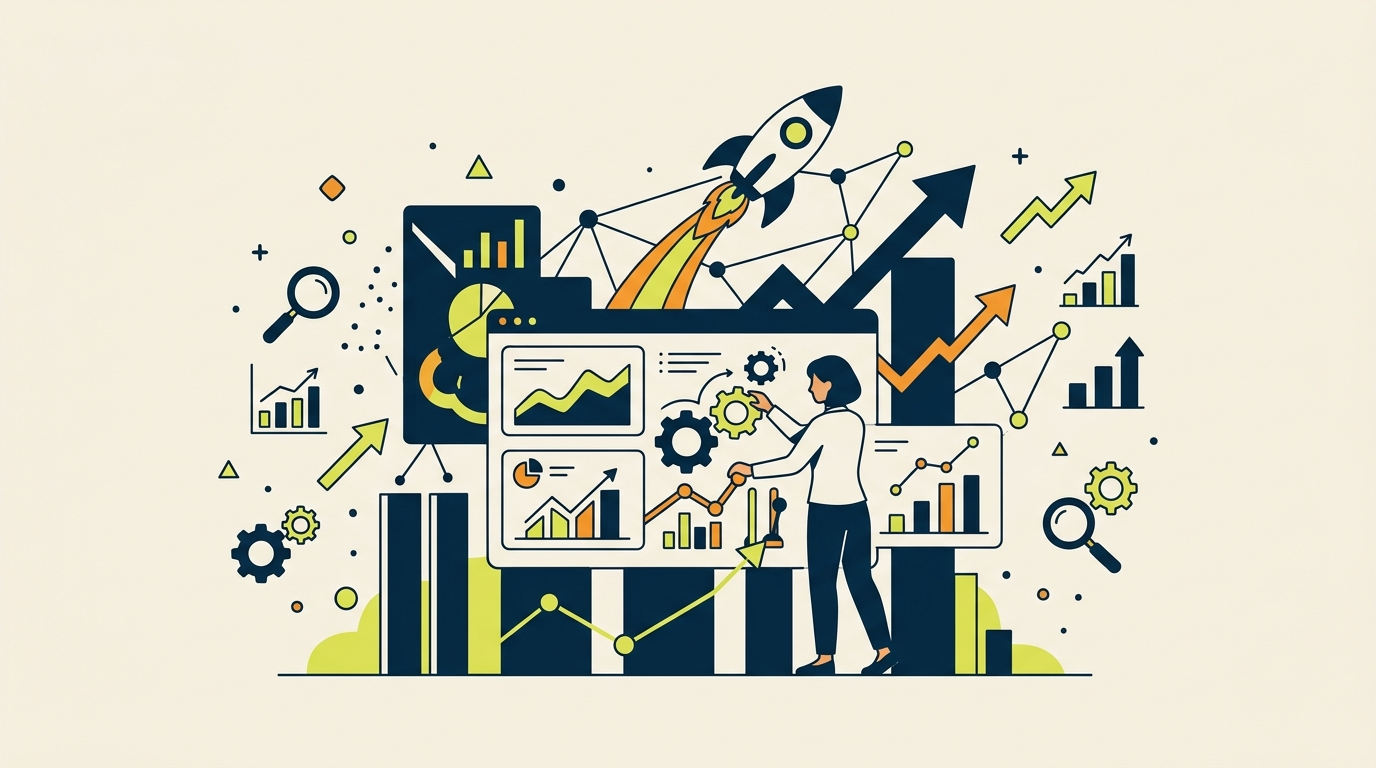
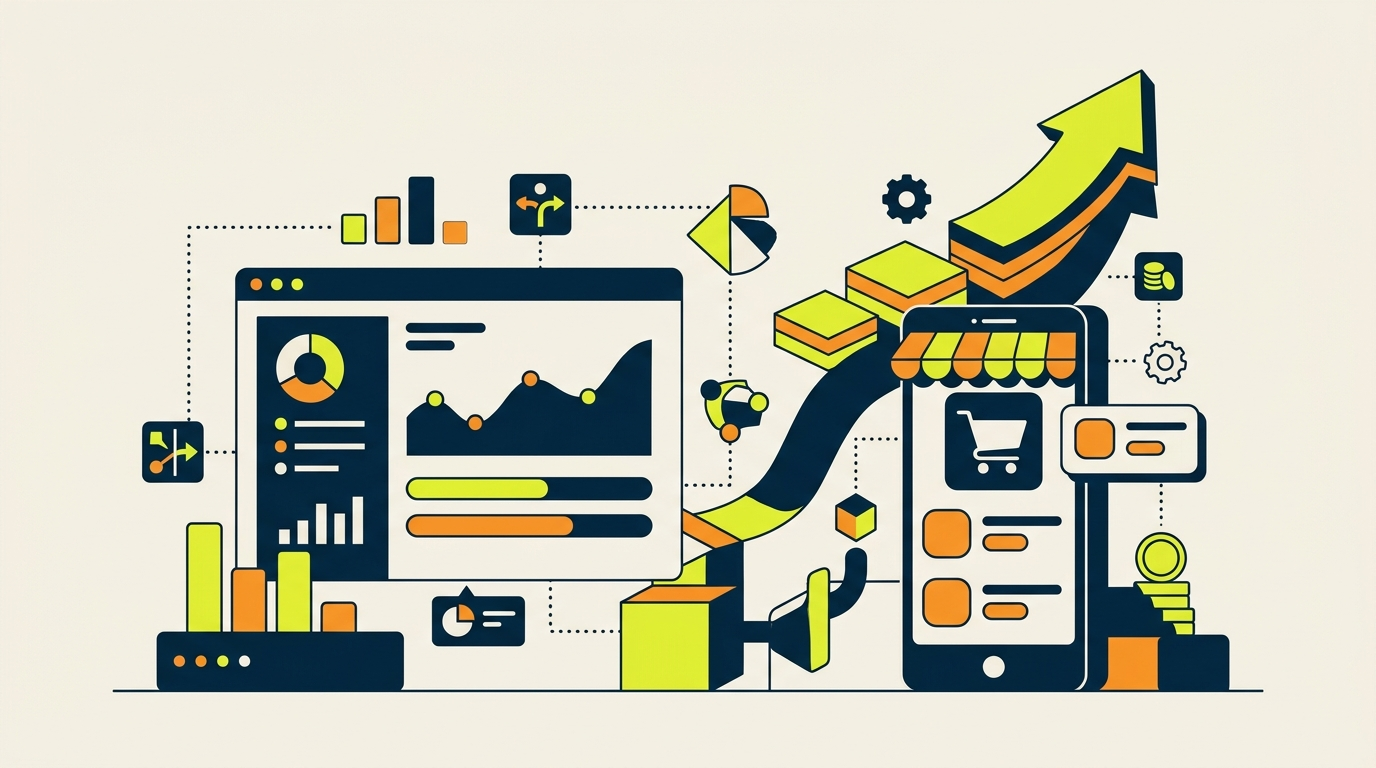
feat(blog): mengoptimalkan-performance-marketing-dengan-cpas

diff --git a/content/blog/mengoptimalkan-performance-marketing-dengan-cpas.md b/content/blog/mengoptimalkan-performance-marketing-dengan-cpas.md
@@ -1,35 +1,123 @@
 ---
-title: "Mengoptimalkan Performance Marketing dengan CPAS"
-description: "Cara mengoptimalkan performance marketing dengan CPAS dan menghindari kesalahan umum dalam pengaturan budget dan creative"
-category: "Meta Ads · Strategi"
+title: "Strategi Testing Meta Ads & CPAS Shopee: Kapan dan Bagaimana Scale Budget Iklanmu?"
+description: "Pelajari cara efektif testing Meta Ads dan Collaborative Performance Advertising Solution (CPAS) Shopee untuk menemukan produk cuan, kapan harus scale budget, d"
+category: "Meta Ads · Panduan"
 datePublished: "2026-06-29"
 cover: "/blog/blogimg/mengoptimalkan-performance-marketing-dengan-cpas.jpg"
 faq:
-  - question: "Apa itu CPAS?"
-    answer: "CPAS (Cost Per Acquisition Scaling) adalah strategi pengiklan yang memungkinkan Anda untuk meningkatkan skala iklan dengan biaya yang efektif. Dengan CPAS, Anda dapat menargetkan audiens yang lebih luas dan meningkatkan konversi dengan biaya yang lebih rendah."
-  - question: "Bagaimana cara memilih produk CPAS yang biaya iklannya murah?"
-    answer: "Untuk memilih produk CPAS yang biaya iklannya murah, Anda perlu menganalisis data produk dan audiens Anda. Pastikan Anda memilih produk yang memiliki CPA (Cost Per Acquisition) yang rendah dan audiens yang relevan dengan produk Anda."
-  - question: "Kapan saya harus melakukan scaling dalam CPAS?"
-    answer: "Anda harus melakukan scaling dalam CPAS ketika Anda telah menemukan creative angle yang efektif dan memiliki CPA yang rendah. Pastikan Anda juga memiliki budget yang cukup untuk melakukan scaling dan meningkatkan skala iklan Anda."
-  - question: "Bagaimana cara menghindari kesalahan umum dalam pengaturan budget dan creative?"
-    answer: "Untuk menghindari kesalahan umum dalam pengaturan budget dan creative, pastikan Anda melakukan testing dengan spend yang cukup dan menggunakan beberapa creative angle yang berbeda. Dengan demikian, Anda dapat menemukan creative angle yang paling efektif dan memiliki CPA yang rendah."
-  - question: "Apa itu ROAS dan bagaimana cara menggunakannya dalam performance marketing?"
-    answer: "ROAS (Return On Ad Spend) adalah metrik yang digunakan untuk mengukur keefektifan iklan Anda. Dengan ROAS, Anda dapat mengetahui berapa rupiah yang Anda dapatkan dari setiap rupiah yang Anda belanjakan untuk iklan. Pastikan Anda menggunakan ROAS untuk mengoptimalkan iklan Anda dan meningkatkan konversi."
+  - question: "Apa itu learning phase dalam Meta Ads?"
+    answer: "Learning phase adalah fase awal Meta \"belajar\" nyari calon pembeli yang tepat. Selama fase ini, sistem Meta mengumpulkan data untuk mengoptimalkan penayangan iklan agar lebih efisien dan efektif."
+  - question: "Berapa budget ideal untuk mulai testing Meta Ads?"
+    answer: "Idealnya, kamu bisa mulai testing dengan budget sekitar Rp200 ribu per hari per ad set, menggunakan 3-4 creative dengan angle berbeda. Ini cukup untuk Meta mengumpulkan data awal dan melihat performa iklan mana yang paling menjanjikan."
+  - question: "Kapan waktu yang tepat untuk menaikkan budget iklan Meta Ads?"
+    answer: "Kamu bisa mulai mempertimbangkan menaikkan budget setelah iklan keluar dari learning phase dan menunjukkan performa yang stabil serta positif (misalnya, Return on Ad Spend (ROAS) atau Cost per Acquisition (CPA) yang bagus) selama minimal 3-4 hari berturut-turut."
+  - question: "Bagaimana cara menaikkan budget iklan Meta Ads agar tidak merusak performa?"
+    answer: "Naikkan budget secara bertahap, sekitar 20-30% dari budget sebelumnya per langkah. Setelah menaikkan, tunggu 3-4 hari agar Meta kembali beradaptasi dan keluar dari learning phase baru, sebelum melakukan kenaikan berikutnya."
+  - question: "Apa itu CPAS Shopee dan mengapa penting untuk brand?"
+    answer: "CPAS (Collaborative Performance Advertising Solution) adalah iklan Meta yang nyambung langsung ke katalog Shopee. Ini sangat efektif untuk mendorong penjualan di marketplace karena menargetkan pengguna Meta yang relevan dan mengarahkan mereka langsung ke produk di Shopee."
 ---
 ## Jawaban Singkat
-Dalam performance marketing, CPAS (Cost Per Acquisition Scaling) adalah strategi yang memungkinkan Anda untuk meningkatkan skala iklan dengan biaya yang efektif. Namun, banyak advertiser yang ragu untuk melakukan scaling karena takut biaya iklan yang tinggi. Untuk menghindari kesalahan umum, pastikan Anda melakukan testing dengan spend yang cukup dan menggunakan beberapa creative angle yang berbeda.
+Testing Meta Ads adalah tahapan krusial untuk menemukan kombinasi produk, creative, dan target audiens yang menghasilkan performa iklan terbaik. Kunci suksesnya ada pada strategi alokasi budget yang tepat, pemilihan creative yang bervariasi, dan kemampuan membaca data untuk memutuskan kapan harus scale (meningkatkan budget) atau stop. Proses ini membantu brand mengoptimalkan Return on Ad Spend (ROAS) dan Cost per Acquisition (CPA).
 
-## Mengenal CPAS
-CPAS adalah strategi pengiklan yang memungkinkan Anda untuk menargetkan audiens yang lebih luas dan meningkatkan konversi dengan biaya yang lebih rendah. Dengan CPAS, Anda dapat meningkatkan skala iklan Anda dan meningkatkan keuntungan Anda.
+## Mengapa Testing Itu Wajib, Bukan Pilihan?
+Sebagai praktisi digital marketing dengan pengalaman puluhan tahun, saya sering melihat brand, terutama owner, langsung 'gas' budget besar tanpa testing memadai. Hasilnya? Budget boncos, ROAS (Return on Ad Spend) jeblok, dan akhirnya kapok beriklan. Padahal, Meta Ads itu seperti laboratorium raksasa. Kamu harus bereksperimen, mengamati, baru kemudian memutuskan. Tanpa testing, kamu cuma main tebak-tebakan, dan di dunia iklan, tebak-tebakan itu mahal.
 
-## Memilih Produk CPAS yang Biaya Iklannya Murah
-Untuk memilih produk CPAS yang biaya iklannya murah, Anda perlu menganalisis data produk dan audiens Anda. Pastikan Anda memilih produk yang memiliki CPA (Cost Per Acquisition) yang rendah dan audiens yang relevan dengan produk Anda.
+Contoh nyata dari klien fashion Mote Kreatif menunjukkan betapa vitalnya testing. Kami menemukan bahwa CPA (Cost per Acquisition) antar SKU (produk) yang berbeda bisa sangat bervariasi, hingga 2.4x lipat! Ada produk yang CPA-nya hanya Rp10 ribu, tapi ada juga yang sampai Rp26 ribu, padahal semua diiklankan di akun Meta yang sama. Bayangkan kalau kamu langsung mengalokasikan budget sama rata ke semua produk tanpa tahu mana yang performanya bagus. Pasti rugi besar, kan?
 
-## Menghindari Kesalahan Umum dalam Pengaturan Budget dan Creative
-Untuk menghindari kesalahan umum dalam pengaturan budget dan creative, pastikan Anda melakukan testing dengan spend yang cukup dan menggunakan beberapa creative angle yang berbeda. Dengan demikian, Anda dapat menemukan creative angle yang paling efektif dan memiliki CPA yang rendah.
+Testing membantu kamu:
+*   **Mengidentifikasi Pemenang:** Menemukan produk, creative, atau target audiens mana yang paling responsif dan menghasilkan konversi paling efisien.
+*   **Menghemat Budget:** Kamu tidak membuang uang untuk iklan yang tidak perform. Budget bisa difokuskan ke aset yang terbukti menguntungkan.
+*   **Memahami Pasar:** Mendapatkan insight berharga tentang preferensi audiensmu, apa yang menarik perhatian mereka, dan bagaimana mereka berinteraksi dengan brandmu.
+*   **Mengoptimalkan ROAS:** Dengan mengalokasikan budget ke kampanye yang paling efektif, kamu akan mendapatkan pengembalian investasi iklan yang lebih tinggi.
 
-## Cara Pilih Produk CPAS yang Biaya Iklannya Murah + Baca Angka Kapan Scale/Kapan Stop
-Untuk memilih produk CPAS yang biaya iklannya murah, Anda perlu menganalisis data produk dan audiens Anda. Pastikan Anda memilih produk yang memiliki CPA yang rendah dan audiens yang relevan dengan produk Anda. Anda juga perlu memantau angka-angka iklan Anda, seperti ROAS (Return On Ad Spend) dan CPA, untuk mengetahui kapan Anda harus melakukan scaling dan kapan Anda harus berhenti.
+## Strategi Testing Awal yang Sehat: Budget dan Creative
+Memulai testing Meta Ads bukan berarti harus langsung bakar duit. Ada polanya, ada strateginya. Ini yang saya terapkan dan rekomendasikan untuk klien-klien Mote Kreatif, agency digital marketing berbasis Garut, Jawa Barat, yang berfokus pada Meta Ads & Google Ads, marketplace optimization (Shopee/TikTok Shop), social media management, TDMO (program 6 bulan bangun tim marketing internal klien), dan Brand Growth:
 
-## Kesimpulan
-Dalam performance marketing, CPAS adalah strategi yang memungkinkan Anda untuk meningkatkan skala iklan dengan biaya yang efektif. Namun, banyak advertiser yang ragu untuk melakukan scaling karena takut biaya iklan yang tinggi. Dengan melakukan testing dengan spend yang cukup dan menggunakan beberapa creative angle yang berbeda, Anda dapat menemukan creative angle yang paling efektif dan memiliki CPA yang rendah. Jika Anda ingin mempelajari lebih lanjut tentang CPAS dan cara mengoptimalkan performance marketing, Anda dapat menghubungi [ngobrol lewat WhatsApp](https://wa.me/[phone redacted])
+### 1. Mulai dengan Budget yang Terukur
+Untuk tahap awal testing, saya biasanya menyarankan budget sekitar **Rp200 ribu per hari per ad set**. Angka ini bukan patokan mutlak, tapi sebuah titik awal yang realistis. Kenapa Rp200 ribu? Karena ini cukup untuk Meta mengumpulkan data yang memadai agar bisa keluar dari *learning phase* (fase awal Meta "belajar" nyari calon pembeli yang tepat) tanpa harus menunggu terlalu lama, tapi juga tidak terlalu besar sehingga risiko kerugian bisa diminimalisir.
+
+Ingat, di tahap ini kita sedang mencari 'sinyal' dari pasar. Kita ingin melihat produk mana yang punya potensi, creative mana yang menarik perhatian, dan target audiens mana yang paling responsif.
+
+### 2. Variasikan Creative dengan Angle Berbeda
+Konten iklan adalah raja, terutama di platform visual seperti Meta. Jangan pernah cuma pakai satu jenis creative. Saya selalu menyarankan untuk menyiapkan **3-4 creative dengan angle (sudut pandang) yang berbeda** untuk setiap ad set yang diuji. Ini bisa berarti:
+
+*   **Angle Manfaat (Benefit-driven):** Menyoroti keuntungan utama produk bagi konsumen (misal: "Kulit Cerah Bebas Kusam!").
+*   **Angle Masalah-Solusi (Problem-Solution):** Mengangkat masalah yang dihadapi audiens dan bagaimana produkmu menjadi solusinya (misal: "Capek Kulit Kering? Ini Solusinya!").
+*   **Angle Testimonial/UGC (User Generated Content):** Menampilkan ulasan atau konten dari pengguna asli yang sudah merasakan manfaat produk.
+*   **Angle Penawaran/Promosi:** Menekankan diskon, gratis ongkir, atau bonus lainnya yang menarik.
+*   **Angle Keunikan Produk (Unique Selling Proposition):** Menyoroti fitur atau keunggulan produk yang tidak dimiliki kompetitor.
+
+Dengan variasi ini, kamu bisa melihat creative mana yang paling beresonansi dengan target audiensmu, menghasilkan CTR (Click-through Rate) tinggi, dan mendorong konversi. Kamu akan terkejut melihat bagaimana satu creative bisa jauh lebih unggul dari yang lain, bahkan untuk produk yang sama.
+
+### 3. Biarkan Meta Mengumpulkan Data (The Learning Phase)
+Setelah meluncurkan kampanye dengan budget dan variasi creative di atas, tugasmu adalah bersabar. Biarkan Meta bekerja. Selama *learning phase*, sistem akan mencoba berbagai kombinasi penayangan untuk menemukan audiens yang paling mungkin berinteraksi dan berkonversi. Jangan buru-buru mengubah setting atau mematikan iklan jika performa belum optimal di hari pertama atau kedua. Beri waktu minimal 3-4 hari agar data yang terkumpul cukup representatif.
+
+## Membaca Angka: Kapan Waktunya Scale, Kapan Waktunya Stop?
+Ini adalah bagian yang paling menantang sekaligus paling krusial. Membaca data iklan bukan sekadar melihat angka merah atau hijau, tapi memahami konteks di baliknya. Setelah beberapa hari testing dengan pola di atas, kamu akan mulai melihat pola:
+
+### Indikator untuk Scale (Menaikkan Budget)
+Kamu bisa mulai mempertimbangkan untuk scale jika:
+
+1.  **ROAS Positif dan Stabil:** Kamu mendapatkan pengembalian investasi yang menguntungkan dan angkanya stabil selama minimal 3-4 hari. Untuk e-commerce, ROAS 2x-3x sering jadi target awal, tapi ini sangat tergantung margin produkmu. Untuk klien fashion Mote Kreatif yang pakai CPAS Shopee, kami pernah mencapai ROAS 20.8x – ini luar biasa, tapi juga hasil dari optimasi dan testing yang panjang.
+2.  **CPA di Bawah Target:** Biaya iklan untuk dapat 1 pembeli/konversi (CPA) berada di bawah batas maksimum yang kamu tetapkan. Ingat kasus klien fashion kami di mana CPA antar SKU bisa beda 2.4x? Fokuslah pada SKU dengan CPA rendah.
+3.  **CTR Tinggi dan Relevan:** Iklanmu mendapatkan banyak klik (Click-through Rate (CTR) tinggi) dan klik tersebut datang dari audiens yang relevan (terbukti dari konversi).
+4.  **Keluar dari Learning Phase:** Kampanye atau ad set sudah melewati *learning phase* dan performanya stabil.
+
+### Cara Scale Budget yang Aman
+Jangan pernah menaikkan budget secara drastis (misal, dari Rp200 ribu langsung ke Rp1 juta). Ini adalah kesalahan umum yang sering saya lihat. Menaikkan budget terlalu cepat bisa membuat Meta Ads masuk kembali ke *learning phase* dan mengacaukan optimasi yang sudah berjalan. Akibatnya, performa bisa menurun drastis.
+
+Strategi yang aman adalah:
+*   **Naikkan secara bertahap:** Maksimal **20-30% dari budget sebelumnya per langkah**.
+*   **Beri waktu:** Setelah menaikkan budget, **tunggu 3-4 hari** sebelum melakukan kenaikan berikutnya. Biarkan Meta beradaptasi dan mengoptimalkan penayangan dengan budget baru.
+*   **Pantau ketat:** Selalu pantau performa setelah kenaikan. Jika performa turun drastis, pertimbangkan untuk menurunkan budget kembali atau mencari tahu penyebabnya.
+
+Contoh: Jika budget awal Rp200 ribu/hari, kamu bisa naikkan ke Rp240-Rp260 ribu/hari. Setelah 3-4 hari stabil, baru naikkan lagi ke Rp290-Rp340 ribu/hari, dan seterusnya.
+
+### Indikator untuk Stop/Paus Iklan
+Tidak semua iklan akan berhasil, dan itu wajar. Penting untuk tahu kapan harus menghentikan atau mematikan iklan yang tidak perform:
+
+1.  **ROAS Negatif/Tidak Menguntungkan:** Setelah beberapa hari, ROAS terus menunjukkan kerugian atau jauh di bawah targetmu.
+2.  **CPA Terlalu Tinggi:** Biaya iklan untuk dapat 1 pembeli/konversi (CPA) jauh di atas batas yang bisa kamu toleransi.
+3.  **CTR Rendah:** Iklanmu tidak menarik perhatian, sedikit yang klik (Click-through Rate (CTR) rendah), meskipun CPM (Cost per Mille – biaya per 1.000 kali iklan tampil) mungkin rendah.
+4.  **Tidak Ada Konversi:** Iklan mendapatkan impresi dan klik, tapi tidak ada penjualan atau leads yang masuk.
+5.  **Learning Phase Terlalu Lama:** Kampanye stuck di *learning phase* tanpa ada perbaikan performa signifikan setelah lebih dari 7 hari, meskipun sudah ada cukup event konversi.
+
+Jangan ragu untuk mematikan iklan yang boncos. Lebih baik rugi sedikit di awal daripada terus membuang budget untuk kampanye yang tidak efektif.
+
+## Peran CPAS (Collaborative Performance Advertising Solution) dalam Skala Iklanmu
+Bagi brand yang berjualan di marketplace seperti Shopee, CPAS adalah game changer. CPAS (Collaborative Performance Advertising Solution) adalah iklan Meta yang nyambung langsung ke katalog Shopee. Ini sangat powerful karena:
+
+*   **Seamless User Experience:** Pengguna Meta Ads yang tertarik bisa langsung diarahkan ke halaman produk di Shopee untuk pembelian.
+*   **Data Marketplace yang Kaya:** Menggabungkan kekuatan penargetan Meta dengan data pembelian dari Shopee, menghasilkan audiens yang sangat relevan.
+*   **ROAS yang Potensial:** Seperti yang saya sebutkan, CPAS Shopee pernah menghasilkan ROAS 20.8x untuk klien fashion Mote Kreatif. Ini menunjukkan potensi luar biasa jika dioptimalkan dengan benar.
+
+### Kapan Memasukkan CPAS dalam Strategi Scaling?
+Setelah kamu berhasil mengidentifikasi produk-produk 'pemenang' melalui testing awal dengan kampanye Meta Ads biasa, dan kamu sudah punya data tentang creative mana yang paling efektif, saatnya mempertimbangkan CPAS. CPAS bisa menjadi tahapan scaling berikutnya untuk produk-produk terbaikmu, terutama jika tujuan utamamu adalah mendorong penjualan langsung di marketplace.
+
+Namun, penting untuk diingat, CPAS juga butuh testing dan optimasi. Strategi testing awal yang sehat akan menjadi fondasi kuat untuk keberhasilan CPAS-mu.
+
+## Kesalahan Umum Saat Testing dan Scaling Meta Ads
+Sebagai praktisi, saya sering melihat beberapa kesalahan berulang yang dilakukan advertiser:
+
+1.  **Tidak Sabar:** Mengubah setting atau mematikan iklan terlalu cepat sebelum Meta selesai *learning phase* atau mengumpulkan data yang cukup. Ingat, beri waktu 3-4 hari.
+2.  **Budget Lompat Drastis:** Menaikkan budget dari Rp200 ribu langsung ke Rp1 juta. Ini hampir selalu berakibat buruk dan membuat Meta memulai *learning phase* lagi. Naikkan budget pelan (20-30% per langkah, tunggu 3-4 hari).
+3.  **Tidak Memvariasikan Creative:** Hanya menggunakan satu atau dua creative yang itu-itu saja. Padahal, creative adalah nyawa iklan. Pola test sehat: mulai Rp200rb/hari, 3-4 creative beda angle, baru nilai mana yang layak scale.
+4.  **Tidak Membaca Data dengan Benar:** Hanya melihat ROAS atau CPA tanpa melihat faktor lain seperti CTR, frekuensi, atau relevansi audiens.
+5.  **Mengabaikan Benchmark:** Tidak punya target ROAS atau CPA yang jelas. Benchmark spend mulai serius biasanya di kisaran Rp4-6 juta/bulan, tapi ini bisa berbeda tiap industri.
+6.  **CBO (Campaign Budget Optimization) yang Salah:** Menggunakan CBO (Meta yang atur sebar budget antar ad set) terlalu dini atau tanpa pemahaman yang cukup. CBO paling efektif saat Meta sudah punya data cukup tentang performa ad set mana yang optimal.
+
+## Tabel Perbandingan: Tanda-tanda untuk Scale vs. Stop
+
+| Indikator           | Tanda untuk Scale (Lanjutkan & Naikkan Budget)                               | Tanda untuk Stop/Paus (Evaluasi Ulang)                                  |
+| :------------------ | :--------------------------------------------------------------------------- | :---------------------------------------------------------------------- |
+| **ROAS**            | Positif, stabil, dan di atas target profitabilitas (misal: >2x-3x)           | Negatif atau di bawah target profitabilitas setelah beberapa hari       |
+| **CPA**             | Di bawah target maksimal yang bisa ditoleransi (misal: <Rp15.000)            | Jauh di atas target maksimal dan terus meningkat                         |
+| **CTR**             | Tinggi (misal: >1-2%) dan menghasilkan klik yang relevan                     | Rendah (misal: <0.5%) dan sedikit klik meskipun impresi banyak           |
+| **Konversi**        | Terjadi secara konsisten dengan biaya yang efisien                           | Sangat minim atau tidak ada konversi sama sekali                        |
+| **Learning Phase**  | Sudah keluar dari *learning phase* dan performa stabil                       | Stuck di *learning phase* tanpa perbaikan signifikan setelah 7 hari+     |
+| **Frekuensi**       | Terkontrol (misal: <3-4), audiens belum jenuh                                | Terlalu tinggi (>5-6), audiens mulai jenuh dan iklan tidak efektif lagi |
+
+## Siap Mengoptimalkan Meta Ads dan CPAS untuk Bisnismu?
+Proses testing, membaca data, dan scaling Meta Ads memang butuh kesabaran dan keahlian. Tapi hasilnya bisa sangat signifikan. Kami di Mote Kreatif telah membuktikannya, mulai dari meningkatkan occupancy hotel 43% menjadi 61% dan omset +77% di low season untuk klien hotel (Rancabango), hingga menghasilkan leads +300% untuk klien lain. Kami juga spesialis dalam mengoptimalkan CPAS untuk brand-brand di marketplace.
+
+Jika kamu butuh partner yang berpengalaman untuk membantu strategimu di Meta Ads, CPAS, atau digital marketing lainnya, jangan ragu untuk [ngobrol lewat WhatsApp](https://wa.me/[phone redacted]). Mari kita bangun strategi yang cuan bersama!